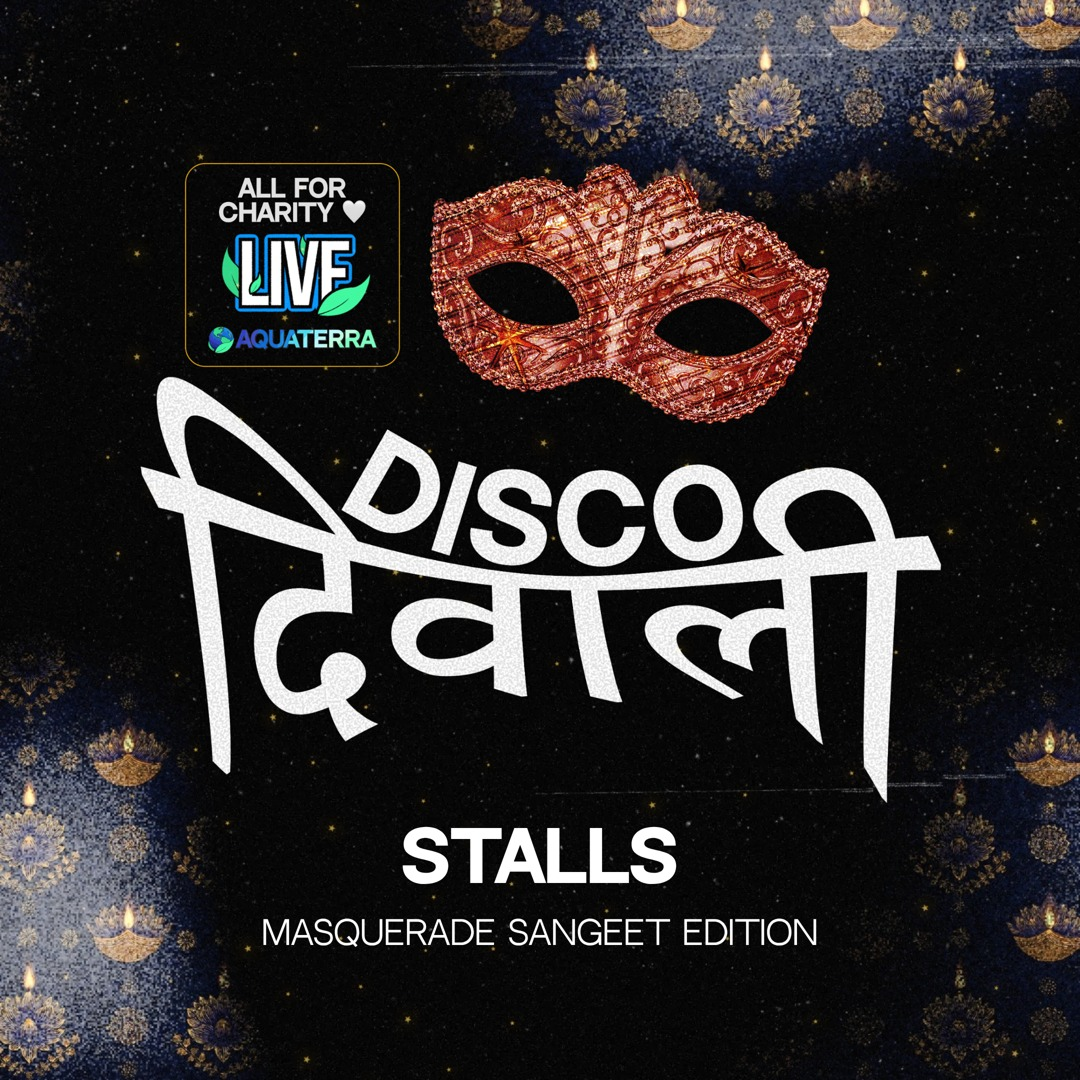
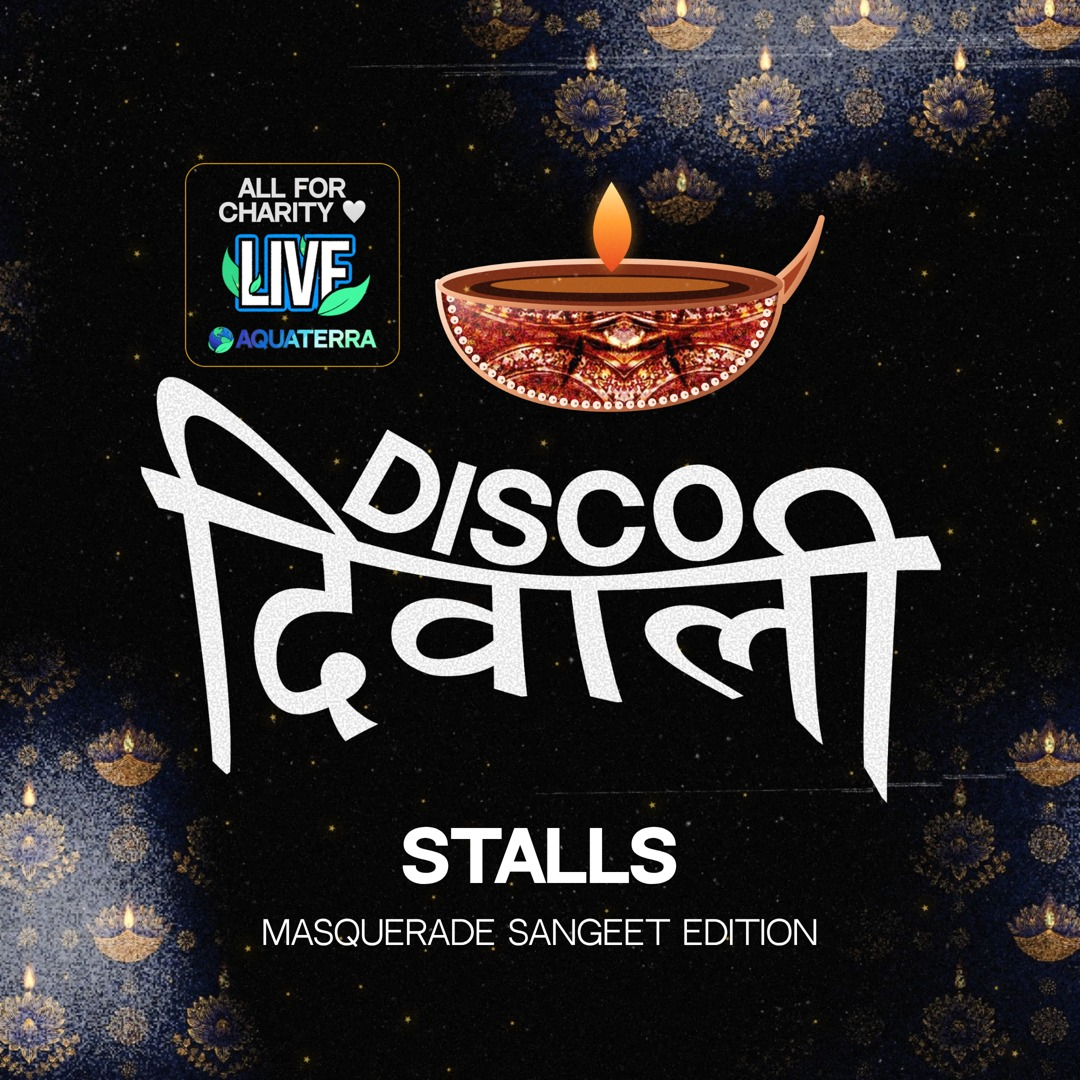
Disco Diwali: optional copper sticker in the wa_dp mask slot; stalls DP uses the diya
Claude-Session: https://claude.ai/code/session_01NMJzQ744hzFCayFxgENyjN

Changed region(s): [[0.3972, 0.1528, 0.7639, 0.3972]]

diff --git a/engine/discodiwali.py b/engine/discodiwali.py
@@ -22,6 +22,7 @@ Kinds: announce | countdown | tickets_open | sold_out | save_the_date | teaser_f
 
 CLI:   PYTHONIOENCODING=utf-8 python engine/discodiwali.py            -> renders the demo set to out/discodiwali/
 """
+from PIL import Image
 import asyncio, base64, datetime, os, sys, importlib.util
 
 ROOT = os.path.dirname(os.path.dirname(os.path.abspath(__file__)))
@@ -64,7 +65,7 @@ REQUIRED = {
     "story_ref":    ("edition", "status", "photo"),
     "poster_ref":   ("edition", "status"),
 }
-OPTIONAL = {"announce": ("note", "photo"), "countdown": ("unit",), "tickets_open": ("detail", "date"), "sold_out": (), "save_the_date": (), "teaser_full": (), "teaser_arch": (), "teaser_trio": (), "story_launch": ("note", "date", "time"), "wa_poster": ("note",), "wa_dp": ("date", "group"), "story_ref": ("note", "link"), "poster_ref": ("note", "link", "photo")}
+OPTIONAL = {"announce": ("note", "photo"), "countdown": ("unit",), "tickets_open": ("detail", "date"), "sold_out": (), "save_the_date": (), "teaser_full": (), "teaser_arch": (), "teaser_trio": (), "story_launch": ("note", "date", "time"), "wa_poster": ("note",), "wa_dp": ("date", "group", "sticker"), "story_ref": ("note", "link"), "poster_ref": ("note", "link", "photo")}
 
 # SVG shader used by style="blue": splits the title lockup into R/G/B copies offset +-3px and screen-blends them back.
 BLUE_DEFS = ('<svg width="0" height="0" style="position:absolute"><defs><filter id="ca" x="-4%" y="-4%" width="108%" height="108%" color-interpolation-filters="sRGB">'
@@ -718,9 +719,15 @@ class Poster:
         self.img("live_badge.png", bx, by, bw, z=8, tag="badge"); self.box("badge", bx, by, bw, round(bw * 1005 / 1061))
         k = .2847                                         # copper mask: visible width 400 (the poster's 692 at 0.58x), shifted right of the badge
         mx, my = 430, 140 + DY
-        self.img("mask_copper.png", round(mx - 157 * k), round(my - 211 * k), round(1680 * k), z=6, tag="mask",
-                 extra="filter:drop-shadow(0 6px 18px rgba(0,0,0,.6));")
-        self.box("mask", mx, my, 400, 263)
+        if self.c.get("sticker"):                         # a copper sticker (assets sticker_<name>.png) in the mask's slot, centred on the mask's footprint
+            im = Image.open(ASSETS + f"sticker_{self.c['sticker']}.png"); sw = 400; sh = round(sw * im.height / im.width)
+            sy = my + (263 - sh) // 2
+            self.img(f"sticker_{self.c['sticker']}.png", mx, sy, sw, z=6, tag="mask", extra="filter:drop-shadow(0 6px 18px rgba(0,0,0,.6));")
+            self.box("mask", mx, sy, sw, sh)
+        else:
+            self.img("mask_copper.png", round(mx - 157 * k), round(my - 211 * k), round(1680 * k), z=6, tag="mask",
+                     extra="filter:drop-shadow(0 6px 18px rgba(0,0,0,.6));")
+            self.box("mask", mx, my, 400, 263)
         t = .466                                          # ball-free title: visible width 800, left 140
         tx, ty = 140, 330 + DY + TY
         self.img("title_lockup_noball.png", round(tx - 265 * t), round(ty - 401 * t), round(2000 * t), z=9, tag="title")

diff --git a/scratchpad/dd_stalls_dp.py b/scratchpad/dd_stalls_dp.py
@@ -6,7 +6,7 @@ from PIL import Image, ImageDraw
 out = os.path.join(ROOT, "out", "discodiwali", "stalls")
 async def main():
     async with dd.B.session():
-        await dd.render_poster("wa_dp", dict(edition="Masquerade Sangeet Edition", group="Stalls"), "square",
+        await dd.render_poster("wa_dp", dict(edition="Masquerade Sangeet Edition", group="Stalls", sticker="diya"), "square",
                                os.path.join(out, "stalls_dp.png"), style="plate", mask="copper")
     dp = Image.open(os.path.join(out, "stalls_dp.png")).convert("RGB")
     m = Image.new("L", dp.size, 0); ImageDraw.Draw(m).ellipse((0, 0, dp.size[0]-1, dp.size[1]-1), fill=255)
